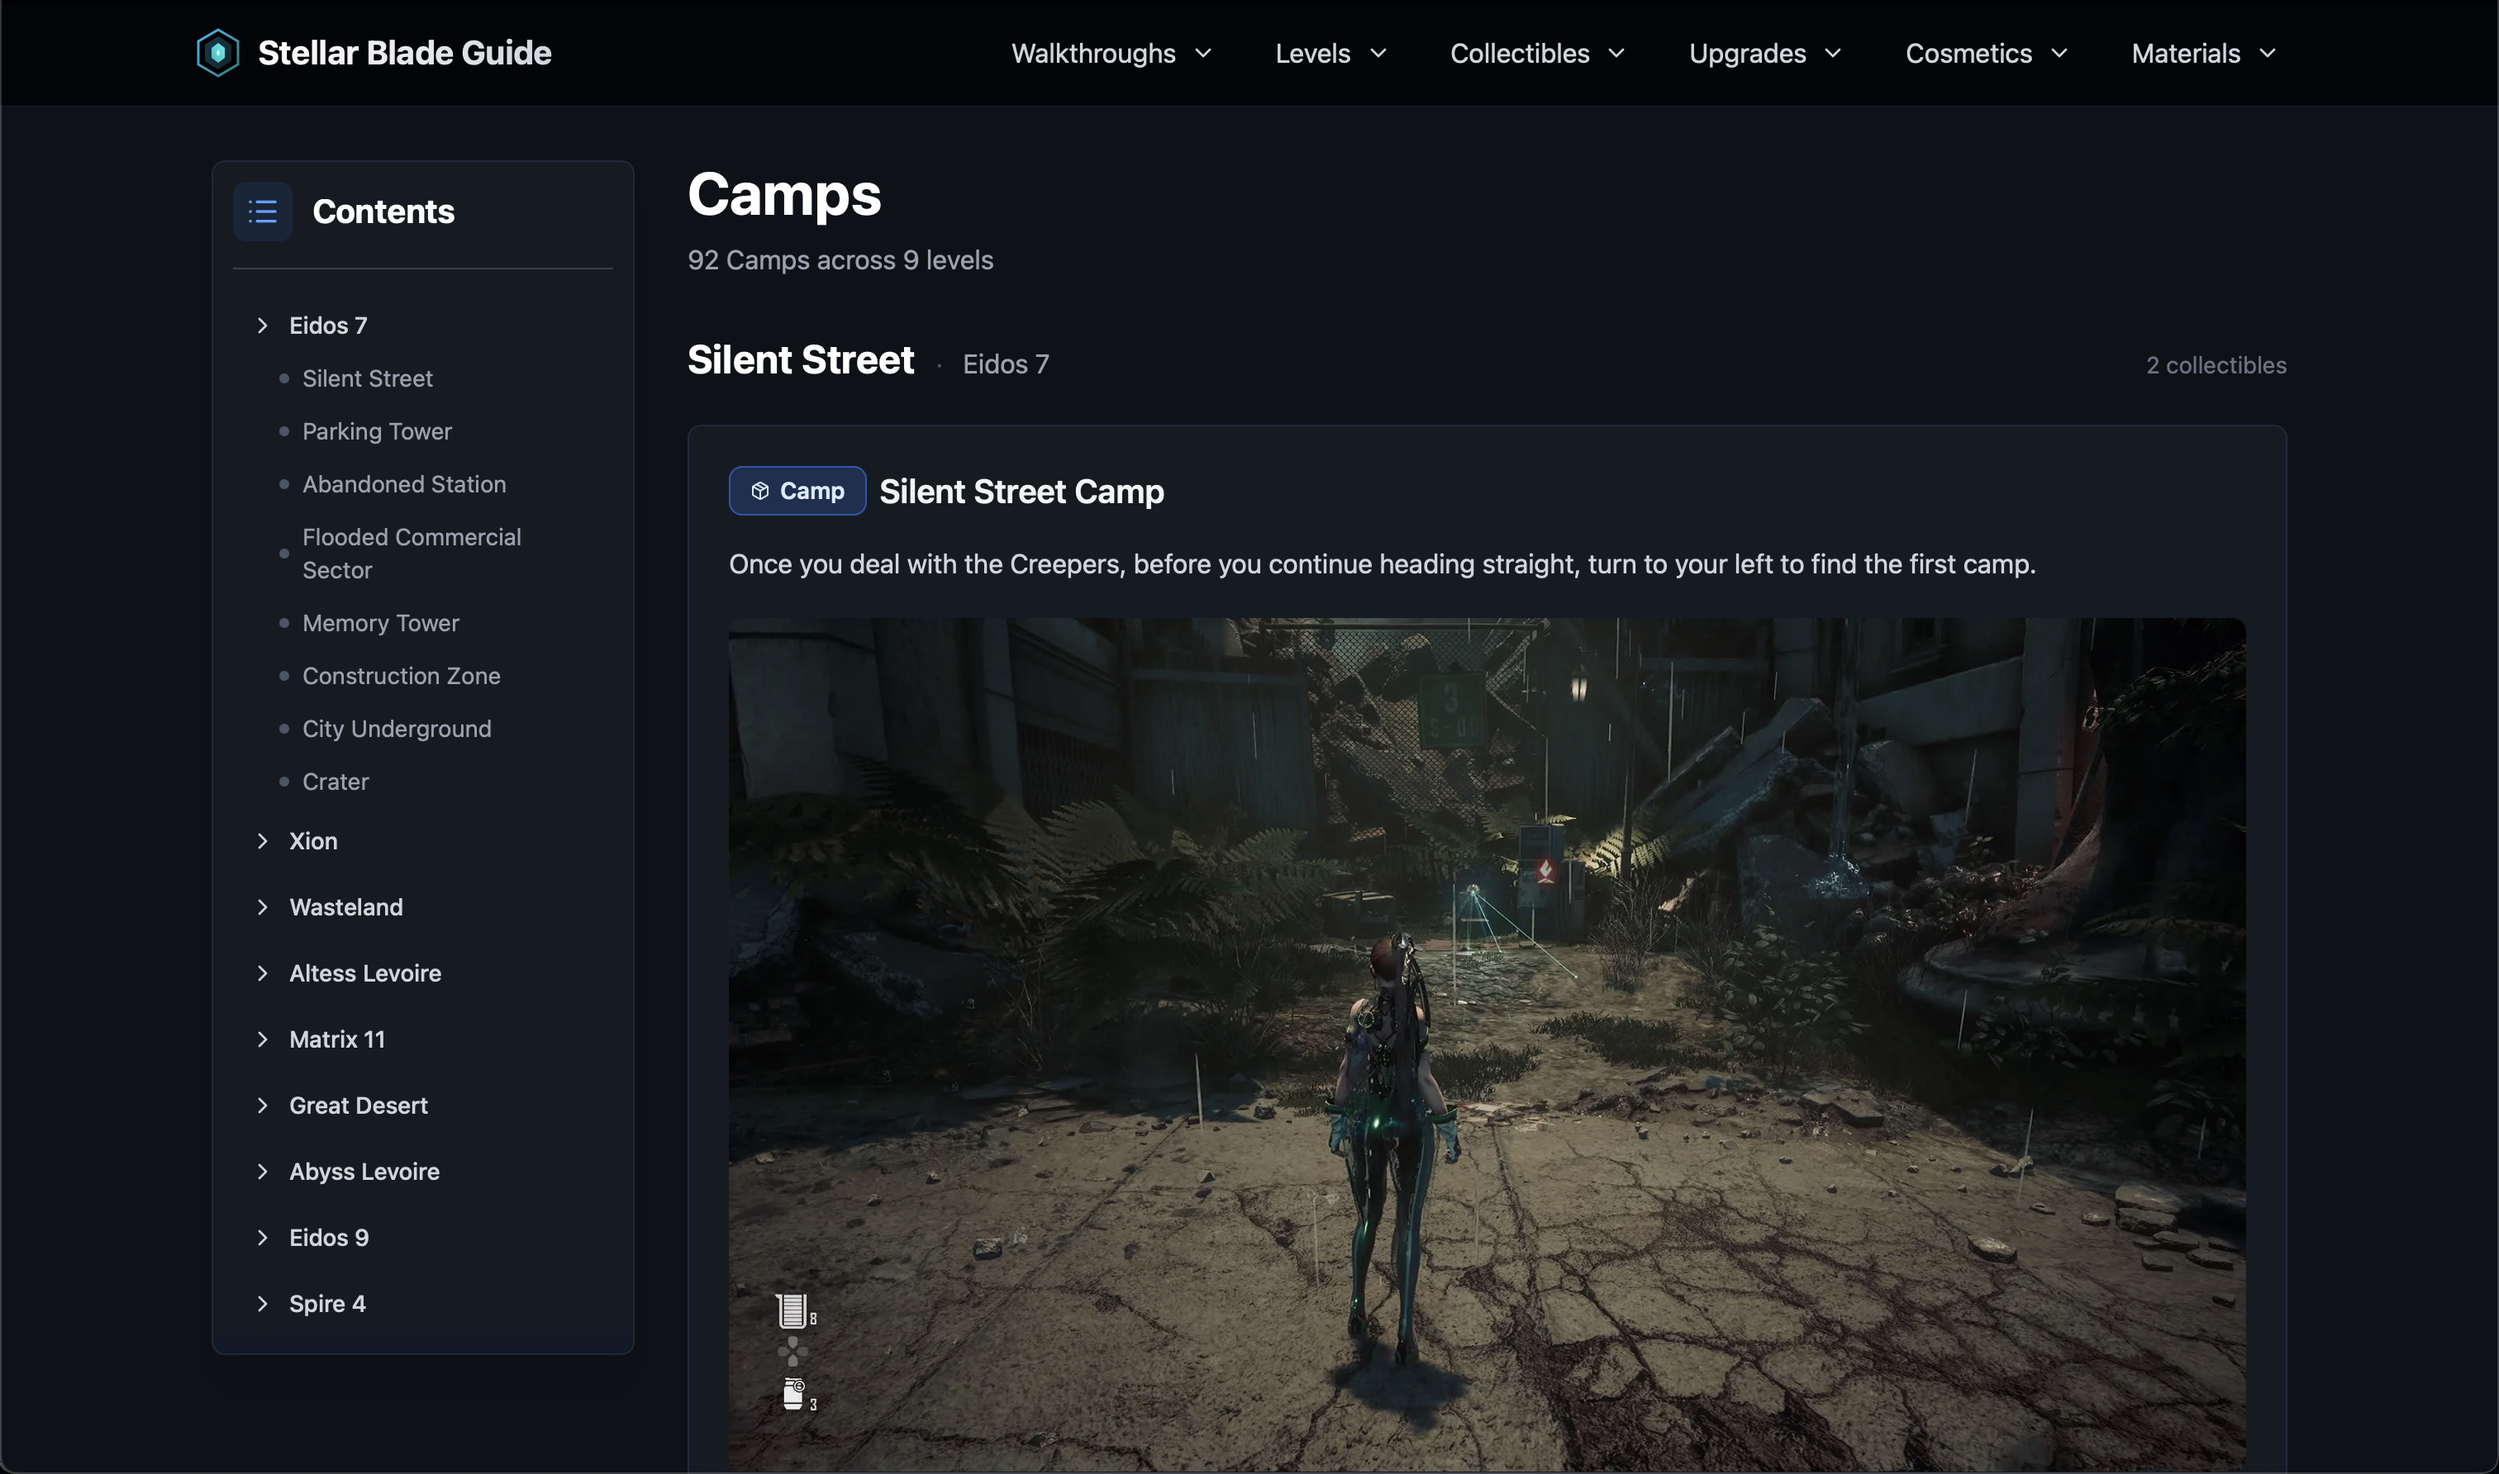
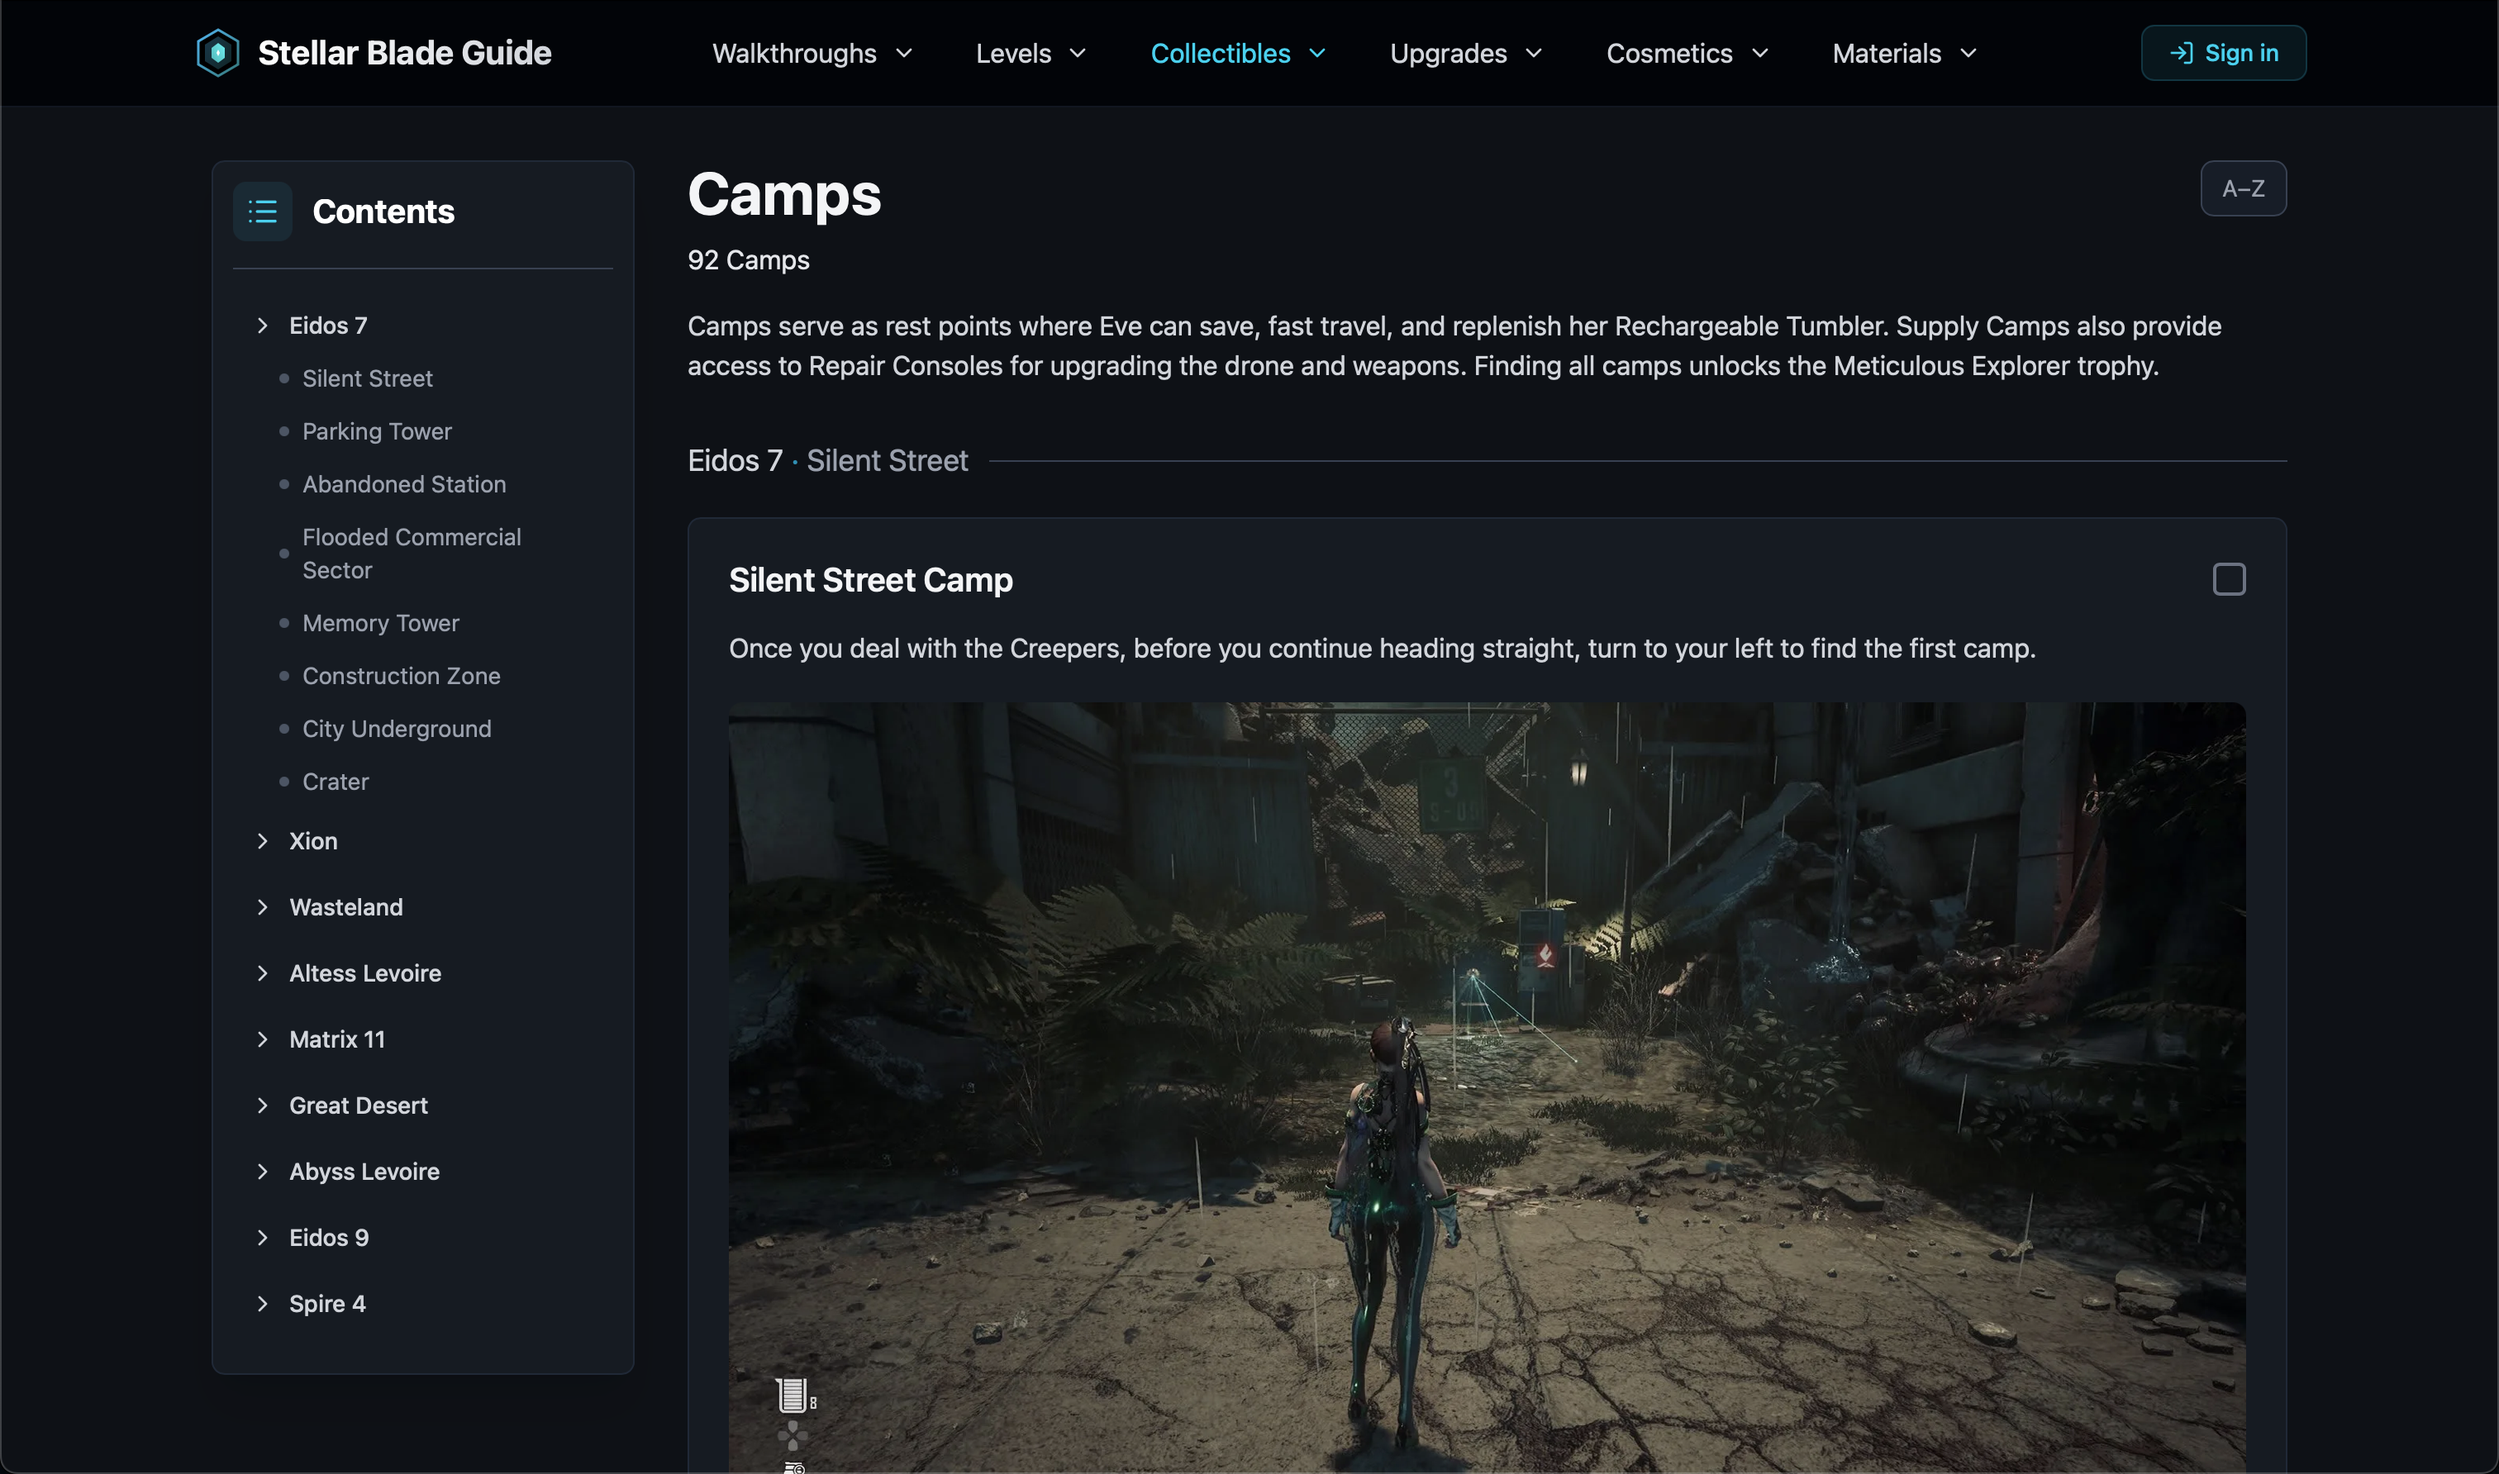
update README with progress tracking and current stats

diff --git a/README.md b/README.md
@@ -1,10 +1,10 @@
 # Stellar Blade Guide
 
-An unofficial game guide and collectibles tracker for *Stellar Blade*. Full-stack web application managing 800+ database records and 1000+ images via Cloudinary CDN.
+An unofficial game guide and collectibles tracker for *Stellar Blade*. Full-stack web application managing 900+ database records and 1500+ images via Cloudinary CDN.
 
 **[Live Site](https://stellarbladeguide.com)** | **Tech Stack:** TypeScript, React, Python, FastAPI, PostgreSQL, Redis
 
-**Key Features:** User authentication • OAuth (Google/Discord) • Threaded comments • AI content moderation • Redis caching • Cloudinary CDN • Image galleries • Responsive design
+**Key Features:** Progress tracking (guest + authenticated) • User authentication • OAuth (Google/Discord) • Threaded comments • AI content moderation • Redis caching • Cloudinary CDN • Image galleries • Responsive design
 
 ![Home Page](client/public/assets/screenshots/homepage.png)
 
@@ -45,6 +45,8 @@ An unofficial game guide and collectibles tracker for *Stellar Blade*. Full-stac
 - Skeleton loaders and smooth loading states
 - Responsive design with mobile navigation drawer
 - Protected routes with auth guards
+- Progress tracking with localStorage for guests and API persistence for authenticated users
+- Optimistic UI updates with automatic rollback on failure
 
 **Backend**
 - FastAPI with fully async endpoints
@@ -57,6 +59,7 @@ An unofficial game guide and collectibles tracker for *Stellar Blade*. Full-stac
 - Rate limiting (slowapi) and custom honeypot middleware for bot detection
 - CORS configuration
 - AI-powered comment moderation via OpenAI Moderation API
+- Progress tracking with guest-to-authenticated sync on login
 
 **Database**
 - PostgreSQL with relational schema
@@ -65,7 +68,8 @@ An unofficial game guide and collectibles tracker for *Stellar Blade*. Full-stac
 - Indexed queries for performance
 
 **Performance & Caching**
-- Multi-tier caching: Redis (server-side, 24hr TTL) + TanStack Query (client-side)
+- Multi-tier caching: Redis (server-side, 7-day TTL) + ETag/304 responses + TanStack Query (client-side)
+- Cache-Control exclusions for mutable per-user data (progress tracking)
 - Cloudinary CDN for image delivery and optimisation
 - 60–70ms average API response times
 
